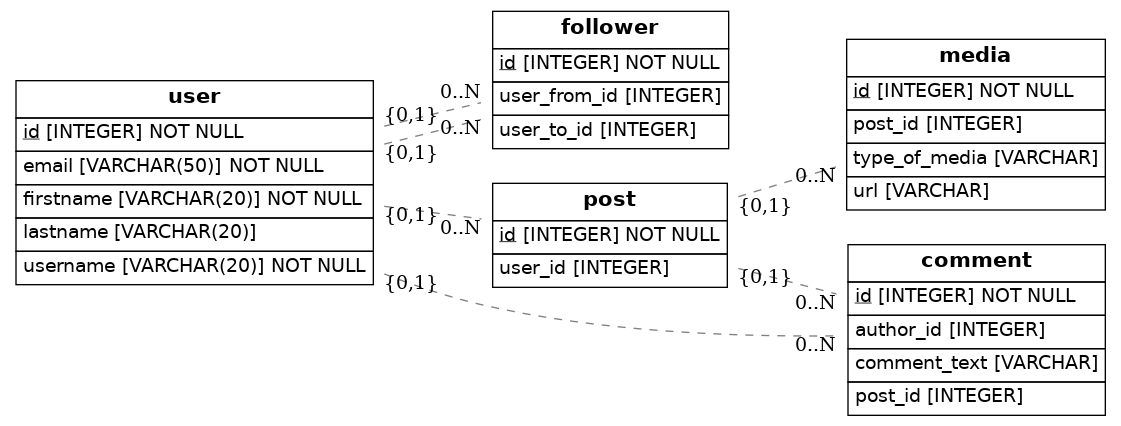
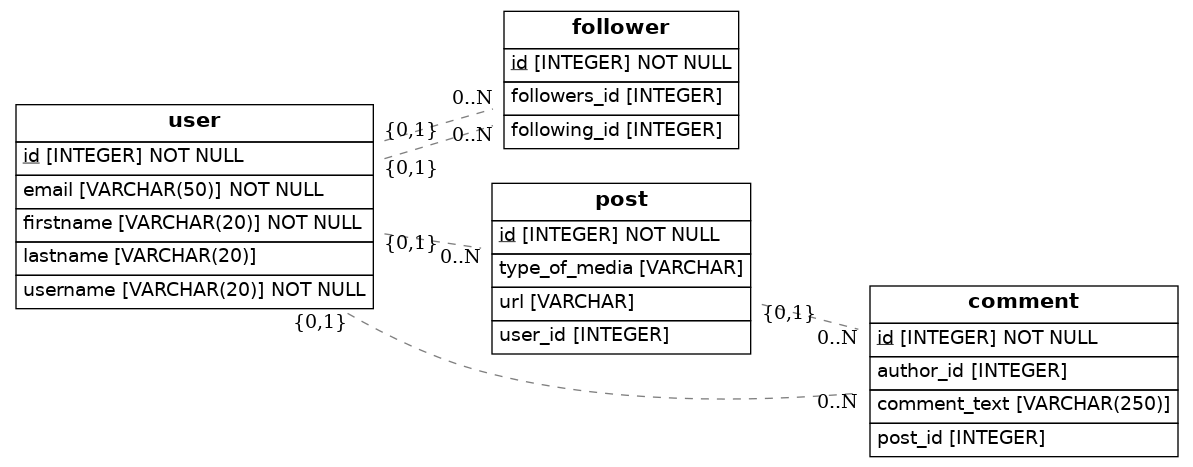
Not Finished Yet

Changed region(s): [[0.0, 0.0, 0.9991, 1.0], [0.6869, 0.0915, 0.9991, 0.5188], [0.7493, 0.0915, 0.7806, 0.1221]]

diff --git a/src/models.py b/src/models.py
@@ -1,6 +1,6 @@
 import os
 import sys
-from sqlalchemy import Column, ForeignKey, Integer, String
+from sqlalchemy import Column, ForeignKey, Integer, String, Table
 from sqlalchemy.orm import relationship, declarative_base
 from sqlalchemy import create_engine
 from eralchemy2 import render_er
@@ -21,8 +21,8 @@ class Users(Base):
 class Followers(Base):
     __tablename__= 'follower'
     id = Column(Integer, primary_key=True)
-    user_from_id = Column(Integer, ForeignKey('user'))
-    user_to_id = Column(Integer, ForeignKey('user'))
+    followers_id = Column(Integer, ForeignKey('user.id'))
+    following_id = Column(Integer, ForeignKey('user.id'))
 
     user_from = relationship(Users)
     user_to = relationship(Users)
@@ -32,22 +32,17 @@ class Posts(Base):
     __tablename__ = 'post'
     id = Column(Integer, primary_key=True)
     user_id = Column(Integer, ForeignKey('user.id'))
+    type_of_media = Column(String)
+    url = Column(String)
 
     post_rel = relationship(Users)
 
-
-class Media(Base):
-    __tablename__='media'
-    id = Column(Integer, primary_key=True)
-    type_of_media = Column(String)
-    url = Column(String)
-    post_id = Column(Integer, ForeignKey('post.user_id'))
 
 
 class Coments(Base):
     __tablename__ = 'comment'
     id = Column(Integer, primary_key=True)
-    comment_text = Column(String)
+    comment_text = Column(String(250))
     author_id = Column(Integer, ForeignKey('user.id')) 
     post_id = Column(Integer, ForeignKey('post.id')) 
 
